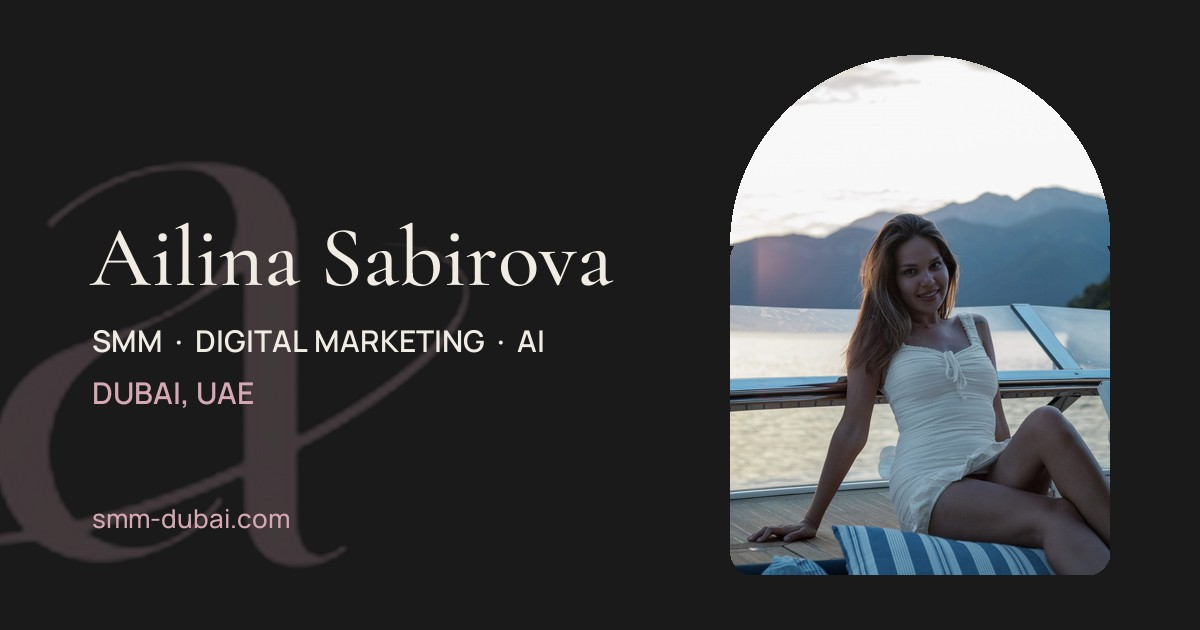
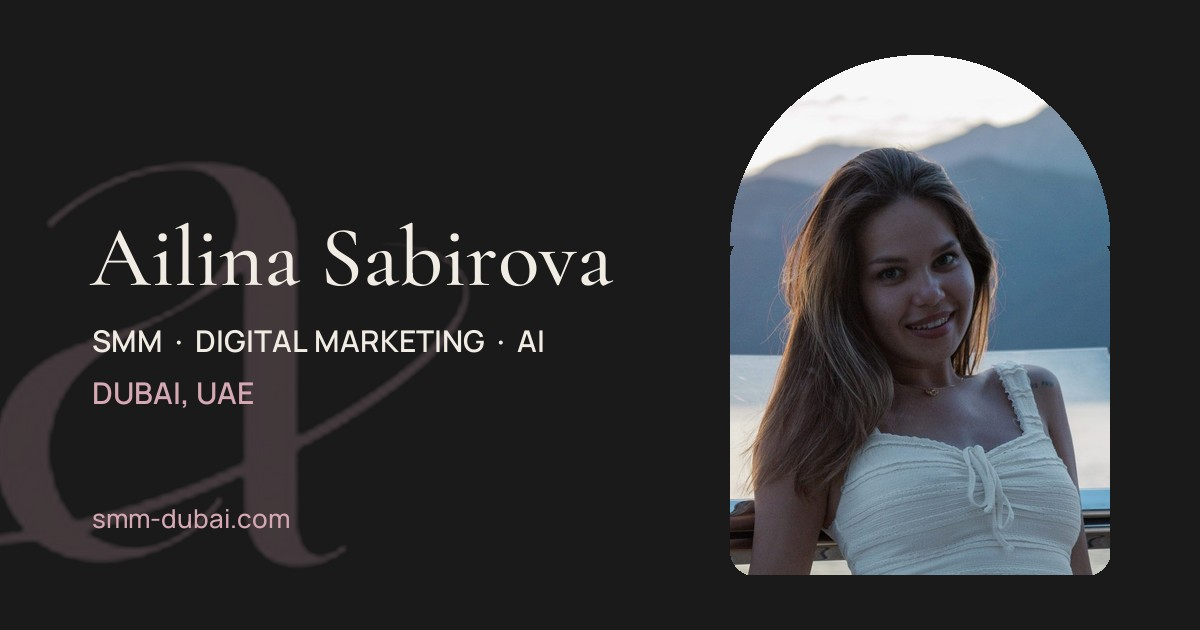
Remove reviews section entirely; crop hero portrait to waist-up
Reviews stripped from markup, styles, dictionaries, site.json and the
admin config. Hero photo recropped 850x1010 head-and-torso, og.jpg
rebuilt from the new crop.

Changed region(s): [[0.5858, 0.1508, 0.925, 0.9349], [0.6783, 0.0905, 0.7708, 0.1508], [0.8017, 0.0905, 0.8325, 0.1206]]

diff --git a/js/app.js b/js/app.js
@@ -4,6 +4,10 @@
 
   /* Fallback dictionaries; content/site.json is the source of truth (editable in /admin) */
   var RU = {
+
+
+
+
   "about.eyebrow": "Обо мне",
   "about.h2": "Сначала стратегия. Потом контент, который решает задачи бизнеса.",
   "about.lede": "Я работаю на стыке стратегии соцсетей, creative direction и digital-маркетинга. Выстраиваю контент-системы, которые усиливают позиционирование, растят охваты и превращают внимание в бизнес-результат - с AI и автоматизацией внутри процессов.",
@@ -122,13 +126,12 @@
   "proc.5t": "Анализ эффективности",
   "proc.eyebrow": "Как идёт работа",
   "proc.h2": "От стратегии до измеримого результата.",
-  "rev.1": "С Айлиной очень легко работать, потому что она не просто делает контент, а сразу думает о стратегии и результате. После того как мы начали работать, контент стал выглядеть намного профессиональнее, а сам процесс - гораздо более организованным. Больше всего понравилось, что мне не нужно было постоянно контролировать каждый шаг.",
-  "rev.2": "До работы с Айлиной у нас был контент, но не было системы. Она собрала понятную стратегию, предложила идеи для Reels, взяла на себя монтаж и организацию контента. В итоге стало намного понятнее, что публиковать, зачем мы это делаем и как это связано с продажами.",
-  "rev.3": "Айлина очень хорошо чувствует бренд и быстро понимает, что нужно аудитории. Мне особенно понравилось, что она не просто выполняет задачи, а предлагает решения и объясняет, почему именно такой подход может сработать. По ощущениям, я получила не просто SMM-специалиста, а человека, который реально думает о развитии бизнеса.",
-  "rev.4": "Айлина помогла нам выстроить более понятную систему продвижения и посмотреть на контент не просто как на публикации, а как на инструмент для привлечения клиентов. Она быстро разобралась в нашем продукте, предложила сильные идеи для позиционирования и помогла связать контент со стратегией продаж. Особенно понравилось, что она думает не только о визуале, но и о бизнес-задачах и конечном результате.",
-  "rev.5": "Айлина быстро поняла специфику нашего бизнеса и помогла собрать более сильное позиционирование и контент-систему. После её работы стало намного понятнее, что мы хотим доносить клиентам, какие темы использовать и как связать контент с продажами.",
-  "rev.eyebrow": "Отзывы",
-  "rev.h2": "Что говорят клиенты.",
+
+
+
+
+
+
   "stat.leads": "лидов приведено клиентам",
   "stat.reach": "охвата в месяц на пике",
   "stat.reels": "Reels снято и упаковано",
@@ -363,4 +366,5 @@
       });
     });
   }
+
 })();

diff --git a/index.html b/index.html
@@ -278,21 +278,6 @@
   </div>
 </section>
 
-<!-- REVIEWS -->
-<section id="reviews" class="band">
-  <div class="wrap">
-    <p class="eyebrow" data-i18n="rev.eyebrow">Testimonials</p>
-    <h2 data-i18n="rev.h2">What clients say.</h2>
-    <div class="rev-grid">
-      <figure class="rev rise"><div class="rev-head" aria-hidden="true"><span class="q">«</span><span class="stars">★★★★★</span></div><blockquote data-i18n="rev.1">Working with Ailina is easy because she doesn't just make content - she thinks about strategy and outcomes from day one. Since we started, our content looks far more professional and the process is much more organised. What I liked most: I never had to micromanage a single step.</blockquote></figure>
-      <figure class="rev rise"><div class="rev-head" aria-hidden="true"><span class="q">«</span><span class="stars">★★★★★</span></div><blockquote data-i18n="rev.2">Before Ailina we had content but no system. She built a clear strategy, brought Reels ideas, took over editing and content management. Now it's obvious what to publish, why we do it and how it connects to sales.</blockquote></figure>
-      <figure class="rev rise"><div class="rev-head" aria-hidden="true"><span class="q">«</span><span class="stars">★★★★★</span></div><blockquote data-i18n="rev.3">Ailina has a great feel for a brand and quickly understands what the audience needs. What I especially liked is that she doesn't just execute tasks - she proposes solutions and explains why an approach should work. It feels like I got not just an SMM specialist, but someone who genuinely thinks about growing the business.</blockquote></figure>
-      <figure class="rev rise"><div class="rev-head" aria-hidden="true"><span class="q">«</span><span class="stars">★★★★★</span></div><blockquote data-i18n="rev.4">Ailina helped us build a clearer promotion system and see content not as mere posts, but as a client-acquisition tool. She understood our product fast, brought strong positioning ideas and connected content to the sales strategy. I especially liked that she thinks beyond visuals - about business goals and the end result.</blockquote></figure>
-      <figure class="rev rise"><div class="rev-head" aria-hidden="true"><span class="q">«</span><span class="stars">★★★★★</span></div><blockquote data-i18n="rev.5">Ailina quickly grasped the specifics of our business and helped shape stronger positioning and a content system. After her work it became much clearer what we want to communicate, which topics to use and how to tie content to sales.</blockquote></figure>
-    </div>
-  </div>
-</section>
-
 <!-- PRICING -->
 <section id="pricing" class="band wall">
   <div class="wrap">

diff --git a/css/style.css b/css/style.css
@@ -186,22 +186,6 @@ h1 .on,h2 .on{font-style:italic;color:var(--rose);font-weight:400}
 .plan .btn{margin-top:auto}
 .plan.hot .btn{background:var(--ink);color:var(--ivory);border-color:var(--ink)}
 
-/* reviews */
-.rev-grid{columns:3;column-gap:18px;margin-top:36px}
-.rev{break-inside:avoid;background:#28345C;border:1px solid rgba(241,236,227,.2);border-radius:var(--radius);padding:26px 24px 24px;margin:0 0 18px;position:relative;box-shadow:0 14px 34px rgba(0,0,0,.35)}
-.rev-head{display:flex;align-items:baseline;justify-content:space-between;margin-bottom:12px}
-.rev .q{font-family:var(--display);font-size:52px;line-height:.5;color:var(--rose)}
-.rev .stars{color:var(--rose);font-size:13px;letter-spacing:.28em}
-.rev blockquote{font-size:14.5px;color:rgba(241,236,227,.78);border:0;margin:0;padding:0}
-.rev:nth-child(1){padding:32px 28px 28px}
-.rev:nth-child(1) blockquote{font-size:15.5px}
-.rev:nth-child(3){background:var(--ivory);border-color:var(--ivory)}
-.rev:nth-child(3) blockquote{color:rgba(31,43,72,.82)}
-.rev:nth-child(3) .q,.rev:nth-child(3) .stars{color:#C58E9D}
-.rev:nth-child(5){background:var(--ink-2)}
-@media (max-width:1020px){.rev-grid{columns:2}}
-@media (max-width:700px){.rev-grid{columns:1}}
-
 /* contact — paper finale */
 .contact-grid{display:grid;grid-template-columns:1fr 1fr;gap:clamp(28px,5vw,64px);align-items:start}
 .channels{display:flex;flex-direction:column;gap:12px;margin-top:28px}
